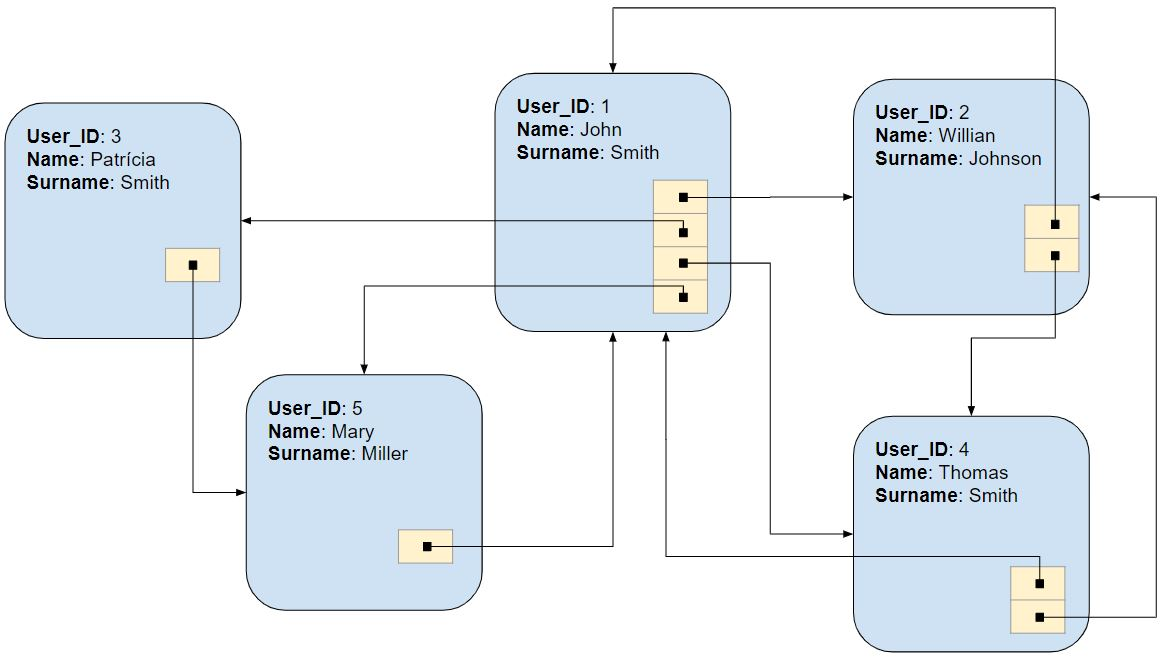
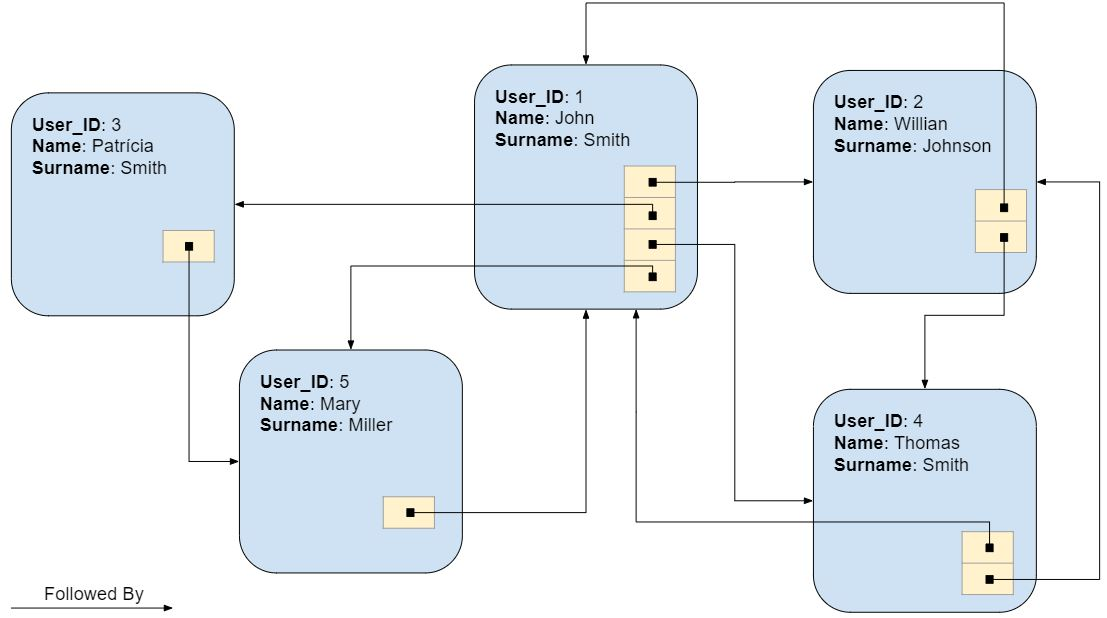
- Publishing 2019-11-03-system-design-coherence.md - Adding legend to graph relationship (index-free-adjacency.JPG)

diff --git a/_posts/2019-11-03-system-design-coherence.md b/_posts/2019-11-03-system-design-coherence.md
@@ -1,0 +1,136 @@
+---
+layout: post
+title: "System design coherence"
+date: 2019-11-03 16:05:00 -0300
+tags: system-design
+---
+
+Six years (so far) developing and managing the same application has taught me a few lessons, one of them being the value of pursuing system design coherence. It's a collective, rather than an individual, responsibility, requiring the entire development team commitment.
+
+Coherence is defined as the quality of being logical, consistent and forming a unified whole. Which from my point of view directly relates to how system design should be handled:
+
+* <b>Logical</b>: System design decisions should be justified, following a clear line of thought.
+* <b>Consistent</b>: System design decisions should be compatible, in agreement, with its current state.
+* <b>Unified whole</b>: System components should fit together, seamlessly working alongside each other.
+
+Below are listed five major practical guidelines on how to achieve system design coherence in software projects.
+
+1 - Create and follow codebase conventions
+============
+
+This is one of the most basic yet beneficial measures you can adopt to improve code quality. It deals with how source code files are written and organized within your codebase.
+
+We developers spend most of our time reading, not writing, code, hence it's extremely important to define and enforce coding conventions up front in your product development life cycle targeting improved code readability.
+
+I personally adopt a combination of organizational and clean coding conventions such as:
+* Segment Files/Directories/Namespaces by domain
+* Avoid multiple languages in one source file
+* Class/Interface names should be nouns or noun phrases
+* Function names should say what they do
+* Avoid too many arguments in functions
+* Avoid functions with too many lines
+* Replace magic numbers with named constants
+* Don't comment intuitive code
+* Discard dead code
+* Where to declare instance variables
+* Where to put braces
+* Tabs vs spaces
+
+And the list goes on...
+
+As a result of following conventions source code will be uniform throughout the codebase, reducing the cognitive effort for searching and reading code files.
+
+2 - Implement clear software architectures
+============
+
+The definition of software architecture is still a topic of debate, but there's a general understanding that it deals with how software is developed both in terms of its physical and logical structure.
+
+The codebase of a software project that doesn't follow a clear architectural style, whatever it may be, deteriorates gradually as new, unstructured code is added to it, becoming harder to modify. Hence the importance of putting in the hours for the design and conservation of an adequate software architecture.
+
+Unfortunately there isn't a magic architecture that fits all use cases. You need to take into account several factors from your project for choosing the right path to follow.
+
+To provide a couple of examples the <u>monolithic architecture</u> was standard a decade ago, before the microservices architecture gained traction. Like any other, it has several benefits and drawbacks, to name a few:
+
+Pros:
+* <b>Shared Components</b>: Monoliths share a single code base, infrastructure and business components can be reused across applications, reducing development time.
+* <b>Performance</b>: The code execution flow is usually constrained to a single process, making it faster and simpler when compared to distributed code execution.
+
+Cons:
+* <b>Tight Coupling</b>: Code changes to shared components can potentially affect the whole system so it has to be coordinated meticulously.
+* <b>Scalability</b>: You cannot scale components separately due to interdependencies, only the whole application.
+
+<p align="center">
+  <img style="max-height: 250px; max-width: 100%; margin: 10px" src="{{ site.baseurl }}/images/p10/monolith.PNG" alt="Monolith"/>
+  <br>
+  <label style="font-size: 12px;">figure 1. The Monolith</label>
+</p>
+
+A software team working on a product that deals with complex data models and needs processing operations to be fast, performant and integrated may prefer to go for a monolithic application.
+
+On the other hand the <u>microservices architecture</u> addresses many of the situations in which monoliths fail, being a great fit for distributed, large scale web applications:
+
+Pros:
+* <b>Decoupled</b>: The application can remain mostly unaffected by the failure of a single module. Also, code changes in one microservice wont impact others, providing more flexibility.
+* <b>Scalability</b>: Different microservices can scale at different rates, independently.
+
+Cons:
+* <b>DevOps</b>: Deploying and maintaining microservices can be complex, requiring coordination among multiple services.
+* <b>Testing</b>: You can effectively test a single microservice, but testing a distributed operation involving multiple microservices is more challenging.
+
+<p align="center">
+  <img style="max-height: 250px; max-width: 100%; margin: 10px" src="{{ site.baseurl }}/images/p10/microservices.PNG" alt="Microservices"/>
+  <br>
+  <label style="font-size: 12px;">figure 2. Microservices Architecture</label>
+</p>
+
+Some architectural patterns are more concerned with the physical disposition of an application and how it's deployed than with its logical structure. That's why it's also important to define a clear [logical architecture]({{ site.baseurl }}/2019/08/business-logic) to guide developers on how to structure code, so that everyone in your team understands how components talk to each other, how responsibility is segregated between modules, [how to manage dependencies]({{ site.baseurl }}/2019/07/integrating-third-party-modules) and what the code execution flow looks like.
+
+3 - Fewer is better: Languages, Frameworks and Tools
+============
+
+With each additional language, framework and tool you introduce into your system comes an additional development and operational cost. This cost comes in different forms, which are illustrated in the following examples:
+
+<b>a)</b> You are a member of development team highly experienced in Nginx + Python + PostgreSQL web applications. The team is fluent in this stack, the development pipeline is tidy and new features are delivered frequently. Then one day a developer decides to implement a new strategic feature using a different stack, say Apache + Java + MySQL, in which he is also highly experienced, but his colleagues aren't. Now whenever this developer is busy and his colleagues have to implement a feature using the different stack they do so more carefully, since they aren't quite familiar yet with all the programming language features, web server and database modes of operation, etc, as they are with the original stack. Thus, development time increases.
+
+<b>b)</b> You have been assigned for managing a production environment of an application facing a considerable growth rate. Your goal is to deliver a SLA of 99.9% avaiability, which breaks down to only 8h of downtime per year. You gather the team to evaluate all technologies and plan the infrastructure required to support the growth rate: health checks, operational metrics, failure recovery, autoscaling, continuous integration, security updates. The plan is implemented and you start fine tuning the production environment, dealing with unforeseen events and issues. After much effort the production environment is stable and on its way to deliver that SLA, but you discover that a different tech stack was introduced and needs to be deployed. You'll need to reevaluate the infrastructure. Also if the stack isn't compatible with your current hosting environment it will potentially incur additional operational expenses.
+
+These are just two illustrative situations, showing the impact of adopting additional technologies on development productivity, infrastructure complexity and operational expenses.
+
+Of course, different technologies bring different possibilities. If we were to use only a limited set of technologies life as a developer would be much harder. For instance, there are scenarios where [graph databases]({{ site.baseurl }}/2019/08/index-free-adjacency) outperforms relational databases immensely. In these scenarios the choice is easy since the benefits outweighs the costs. The point is, you should always evaluate the <u>long-term costs</u> of a technological decision before making it to solve a <u>short-term problem</u>.
+
+> All right, but how does this relates to system design coherence?
+
+Well, I believe that a system that is designed to avoid redundant technologies, that takes most out of its current stack, that has a stable production environment, whose team carefully evaluates structural changes and is able to sustain development productivity in the long run is a system that is clearly following the definition of &#x201C;coherence&#x201D;.
+
+4 - Involve your team in system design decisions
+============
+
+As I've stated in the beginning of this article system design is a collective, shared responsibility. Individual, local actions have the potential to affect the system globally, so it's essential that the development team is on the same page regarding the codebase conventions, employed architectures and the technology stack.
+
+The most effective way to build this <u>shared knowledge environment</u> is to involve the team in all system design decisions. The benefits are plenty:
+
+* Individuals feel valued and part of the team
+* Important decisions are challenged by the entire team before being made
+* System design strengths and weaknesses are more clearly understood by everyone
+* Creates a sense of collective accountability and trust
+
+This doesn't mean that every developer on the team should have equal decision power. Senior roles should certainly have more influence in decision making then junior roles. But it's vital that everyone has the opportunity to give his opinion and participate. Less experienced developers will definitely grow from these proceedings.
+
+5 - The All-in rule
+============
+
+Efforts to refactor a system design should be conducted to completion (all-in), rather than being partially concluded. There's a great risk of eroding your system design if developers feel free to apply different coding styles and architectural patterns locally whenever they see fit. Before too long you will end up with a disconnected, sometimes conflicting, system design.
+
+By preserving your system design you're also preserving the validity of your team's <u>shared knowledge</u> about the system, which is extremely valuable. During development we make several assumptions on the behavior of the system based in this shared knowledge. Once it starts to lose validity unexpected issues start occurring, developers become justifiably less confident in the system design, implement features more carefully, losing productivity.
+
+The challenge here is being open to improve your system design knowing that it can be exceptionally expensive to conduct a large system refactor up to completion. An approach I have used in a similar situation was to isolate refactored services behind an integration interface. The result was two independent system designs seamlessly working alongside each other, rather than having them mixed together:
+
+<p align="center">
+  <img style="max-height: 250px; max-width: 100%; margin: 10px" src="{{ site.baseurl }}/images/p10/integrated-designs.PNG" alt="integrated-designs"/>
+  <br>
+  <label style="font-size: 12px;">figure 3. Integrated designs</label>
+</p>
+
+---
+
+These five guidelines have served me well over the past years, helping to keep productivity high, optimize resources and deliver up to the standards. It's more a mindset then an actual process. Like all mindsets it should be constantly challenged and subject to improvement.

diff --git a/_posts/2019-08-05-data-structures-complexity-reference.md b/_posts/2019-08-05-data-structures-complexity-reference.md
@@ -2,7 +2,6 @@
 layout: post
 title: "Data structures complexity reference"
 date: 2019-08-05 07:45:00 -0300
-comments: true
 tags: data-structures complexity-theory
 ---
 

diff --git a/_posts/2019-07-23-integrating-third-party-modules.md b/_posts/2019-07-23-integrating-third-party-modules.md
@@ -2,7 +2,6 @@
 layout: post
 title: "Integrating third-party modules"
 date: 2019-07-23 20:30:00 -0300
-comments: false
 tags: system-design dependency-injection
 ---
 

diff --git a/_posts/2019-07-28-using-queues-to-offload-web-api.md b/_posts/2019-07-28-using-queues-to-offload-web-api.md
@@ -2,7 +2,6 @@
 layout: post
 title: "Using queues to offload Web API"
 date: 2019-07-28 11:45:00 -0300
-comments: true
 tags: system-design queuing
 ---
 

diff --git a/_posts/2019-08-02-a-successful-deployment-model.md b/_posts/2019-08-02-a-successful-deployment-model.md
@@ -2,7 +2,6 @@
 layout: post
 title: "A successful deployment model"
 date: 2019-08-02 11:45:00 -0300
-comments: true
 tags: continuous-delivery
 ---
 

diff --git a/_posts/2019-08-11-complexity-classes-of-problems.md b/_posts/2019-08-11-complexity-classes-of-problems.md
@@ -2,7 +2,6 @@
 layout: post
 title: "Complexity classes of problems"
 date: 2019-08-11 11:30:00 -0300
-comments: true
 tags: complexity-theory
 ---
 

diff --git a/_posts/2019-09-22-the-short-transaction-trap.md b/_posts/2019-09-22-the-short-transaction-trap.md
@@ -2,7 +2,6 @@
 layout: post
 title: "The short transaction trap"
 date: 2019-09-22 14:00:00 -0300
-comments: true
 tags: database refactoring
 ---
 

diff --git a/_posts/2019-08-24-index-free-adjacency.md b/_posts/2019-08-24-index-free-adjacency.md
@@ -2,7 +2,6 @@
 layout: post
 title: "Index-free adjacency"
 date: 2019-08-24 14:25:00 -0300
-comments: true
 tags: data-structures database
 ---
 

diff --git a/_posts/2019-10-02-why-is-it-hard-to-name-classes.md b/_posts/2019-10-02-why-is-it-hard-to-name-classes.md
@@ -2,7 +2,6 @@
 layout: post
 title: "Why is it hard to name classes?"
 date: 2019-10-02 09:00:00 -0300
-comments: true
 tags: oop
 ---
 

diff --git a/_posts/2019-08-18-business-logic.md b/_posts/2019-08-18-business-logic.md
@@ -2,7 +2,6 @@
 layout: post
 title: "Business logic"
 date: 2019-08-18 17:50:00 -0300
-comments: true
 tags: system-design
 ---
 
